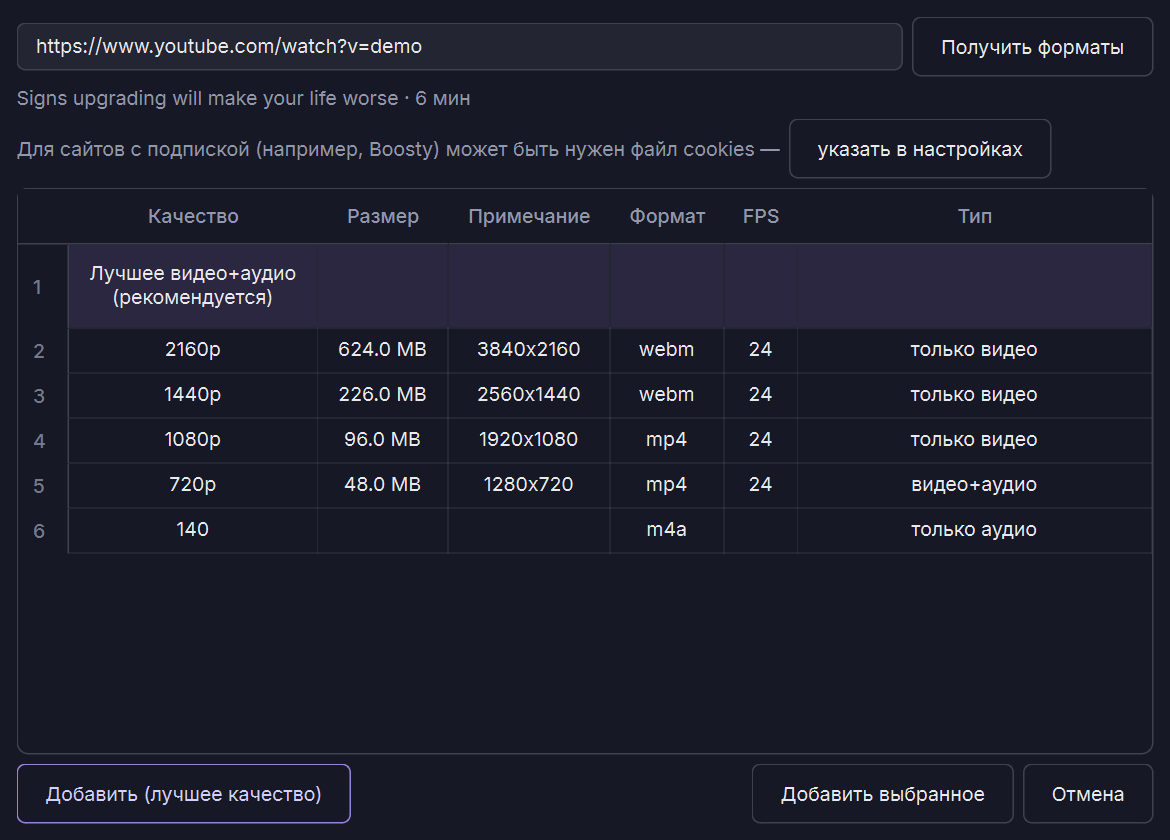
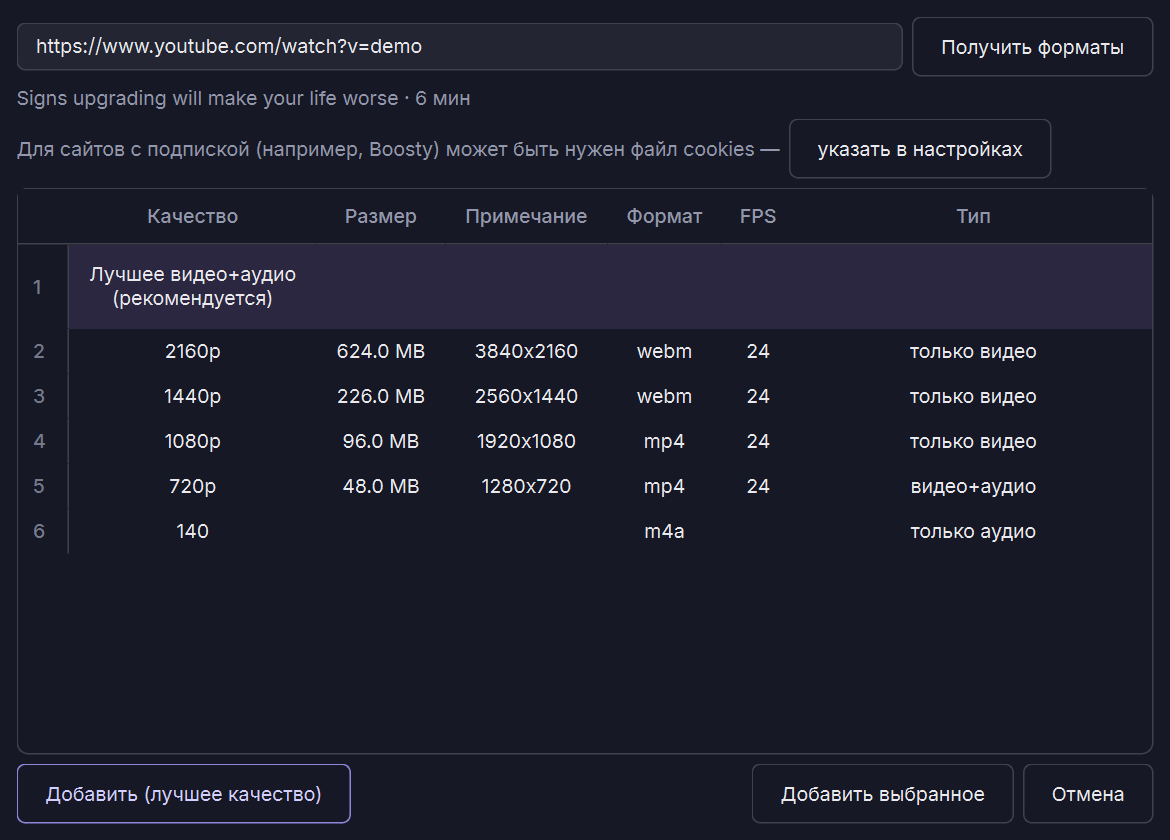
Format table: whole-row highlight only (no grid, no per-cell hover)

diff --git a/wordmute_app/ui/url_dialog.py b/wordmute_app/ui/url_dialog.py
@@ -95,6 +95,7 @@ class AddUrlDialog(QDialog):
         self.table.setSelectionBehavior(QAbstractItemView.SelectRows)
         self.table.setSelectionMode(QAbstractItemView.SingleSelection)
         self.table.setEditTriggers(QAbstractItemView.NoEditTriggers)
+        self.table.setShowGrid(False)
         self.table.itemDoubleClicked.connect(lambda _: self.accept())
         self.table.itemSelectionChanged.connect(self._update_ok)
         layout.addWidget(self.table, stretch=1)
